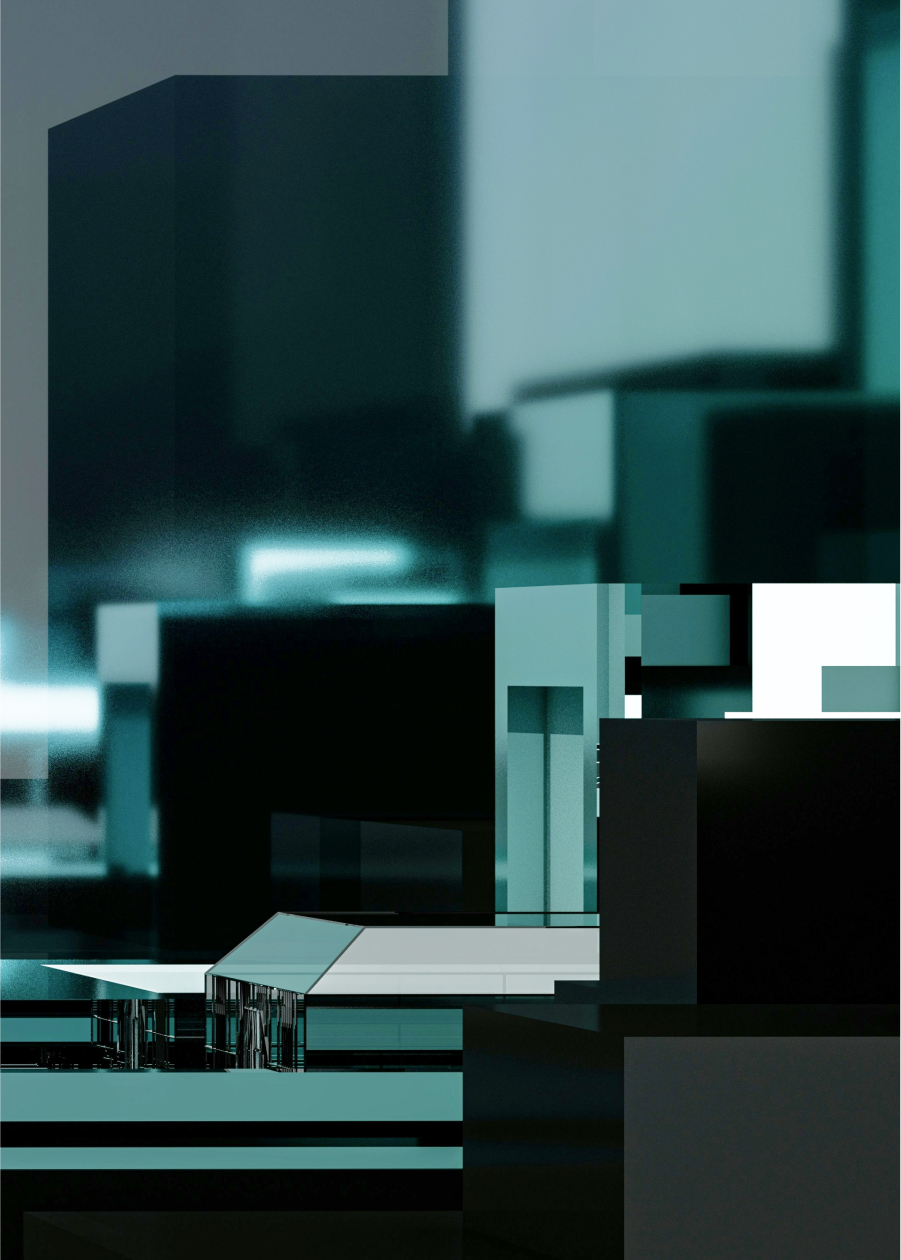
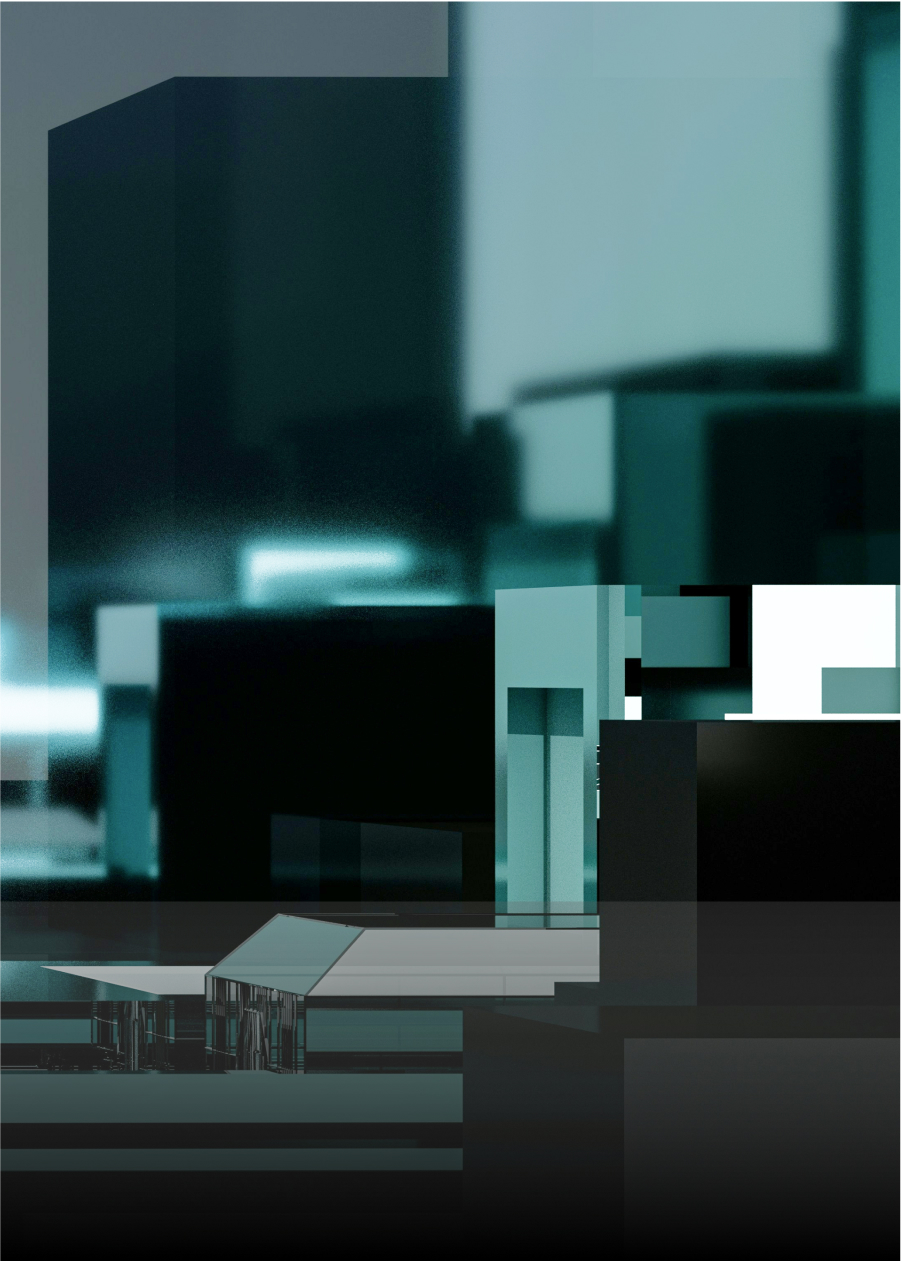
메인페이지수정

diff --git a/src/scss/_swiper.scss b/src/scss/_swiper.scss
@@ -35,26 +35,39 @@
             width:100%;
             justify-content: center;
             gap:26px;
-            margin-top:56px;
+            margin-top:127px;
             li{
                 position:relative;
                 width:300px;
                 height:420px;
-                &:nth-of-type(2n){
-                    transform:translateY(71px);
+
+                &:nth-of-type(2n-1){
+                    transform:translateY(-71px);
                 }
-                img{
-                    position:absolute;
-                    top:0;
-                    left:0;
-                    width:100%;
-                    height:100%;
-                    z-index:-1;
+                &:nth-of-type(1){
+                    background: url(/images/main/company_overview_1.jpg) center no-repeat;
+                    background-size: cover;
+                    border-radius:0 0 60px 0;
+                }
+                &:nth-of-type(2){
+                    background: url(/images/main/company_overview_2.jpg) center no-repeat;
+                    background-size: cover;
+                    border-radius:0 0 0 60px ;
+                }
+                &:nth-of-type(3){
+                    background: url(/images/main/company_overview_3.jpg) center no-repeat;
+                    background-size: cover;
+                    border-radius:  0 60px 0 0;
+                }
+                &:nth-of-type(4){
+                    background: url(/images/main/company_overview_4.jpg) center no-repeat;
+                    background-size: cover;
+                    border-radius:0 0 60px 0 ;
                 }
                 p{
                     font-size:26px;
                     font-weight:bold;
-                    line-height:1.4;
+                    line-height:7rem;
                     color:#fff;
                     margin-top:320px;
                 }

diff --git a/public/css/style.css b/public/css/style.css
@@ -1394,28 +1394,40 @@ main {
   width: 100%;
   justify-content: center;
   gap: 26px;
-  margin-top: 56px;
+  margin-top: 127px;
 }
 .container.main section.company ul li {
   position: relative;
   width: 300px;
   height: 420px;
 }
-.container.main section.company ul li:nth-of-type(2n) {
-  transform: translateY(71px);
+.container.main section.company ul li:nth-of-type(2n-1) {
+  transform: translateY(-71px);
 }
-.container.main section.company ul li img {
-  position: absolute;
-  top: 0;
-  left: 0;
-  width: 100%;
-  height: 100%;
-  z-index: -1;
+.container.main section.company ul li:nth-of-type(1) {
+  background: url(/images/main/company_overview_1.jpg) center no-repeat;
+  background-size: cover;
+  border-radius: 0 0 60px 0;
+}
+.container.main section.company ul li:nth-of-type(2) {
+  background: url(/images/main/company_overview_2.jpg) center no-repeat;
+  background-size: cover;
+  border-radius: 0 0 0 60px;
+}
+.container.main section.company ul li:nth-of-type(3) {
+  background: url(/images/main/company_overview_3.jpg) center no-repeat;
+  background-size: cover;
+  border-radius: 0 60px 0 0;
+}
+.container.main section.company ul li:nth-of-type(4) {
+  background: url(/images/main/company_overview_4.jpg) center no-repeat;
+  background-size: cover;
+  border-radius: 0 0 60px 0;
 }
 .container.main section.company ul li p {
   font-size: 26px;
   font-weight: bold;
-  line-height: 1.4;
+  line-height: 7rem;
   color: #fff;
   margin-top: 320px;
 }
@@ -1789,11 +1801,12 @@ span.strong {
   font-size: 6rem;
 }
 
-.visual_accordion {
+.container.main .visual_accordion {
+  margin-top: 0;
   padding: 70px 0 100px;
   background-color: #d2282f;
 }
-.visual_accordion h3 {
+.container.main .visual_accordion h3 {
   font-size: 28px;
   line-height: 1.8;
   text-align: center;

diff --git a/src/scss/_visaul_accordion.scss b/src/scss/_visaul_accordion.scss
@@ -3,7 +3,8 @@ $card-width: 160px;
 $card-height: 440px;
 $card-hover-width: 780px;
 $transition-duration: 0.5s;
-.visual_accordion{
+.container.main .visual_accordion{
+    margin-top:0;
     padding:70px 0 100px;
     background-color: common.$mainColor;
     h3{
